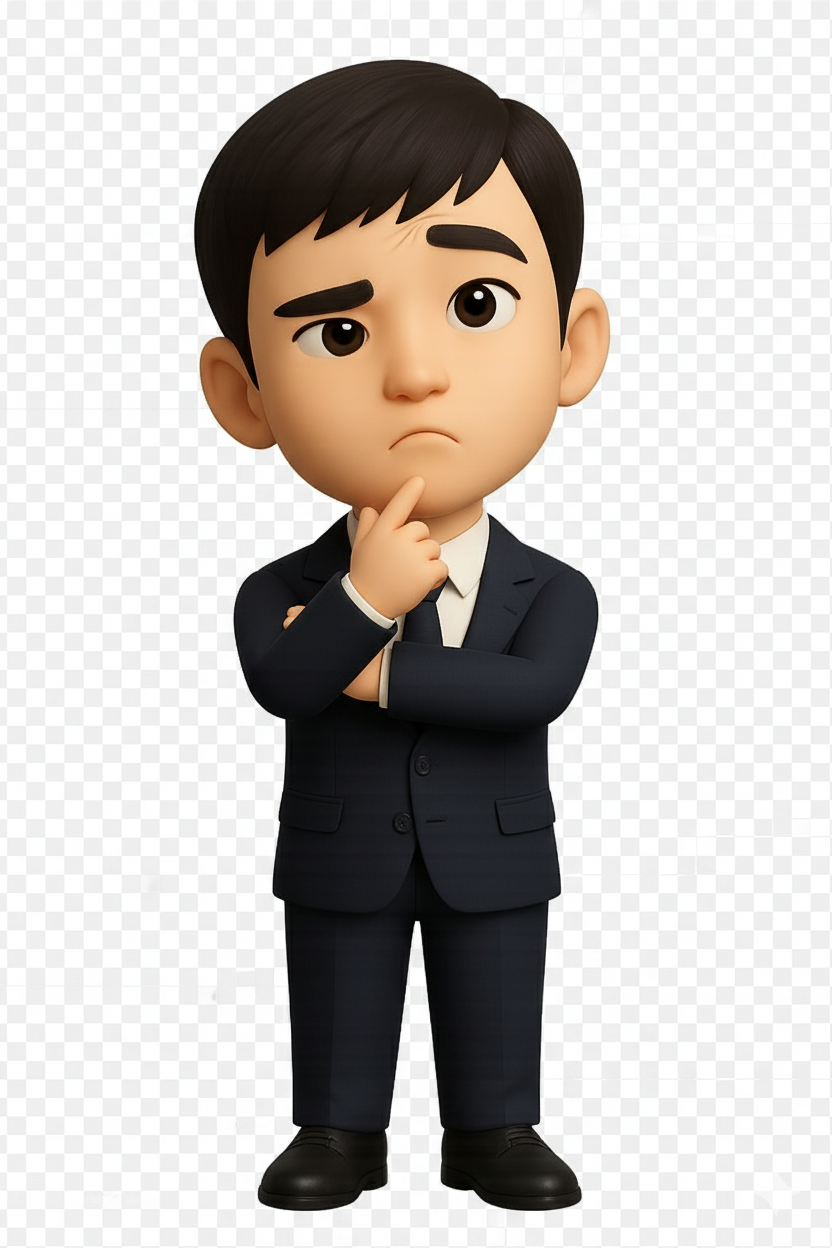
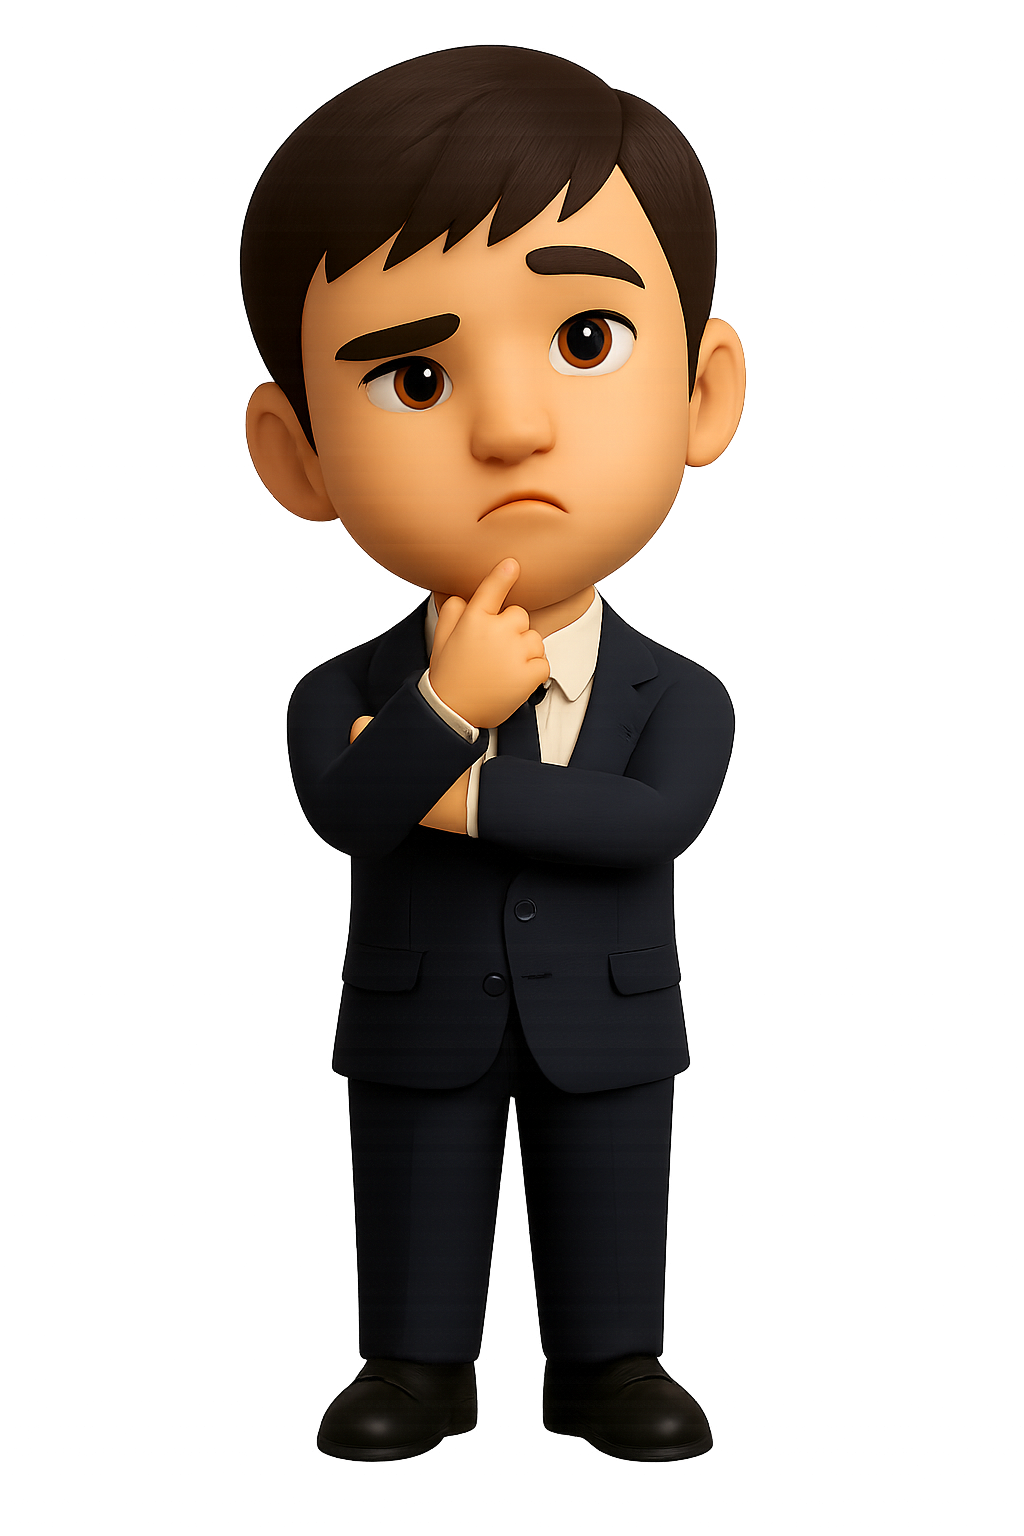
[fit] add ChatDialog and character image

diff --git a/S2Hub_App/Views/ChatDialog.xaml b/S2Hub_App/Views/ChatDialog.xaml
@@ -1,0 +1,44 @@
+<Window x:Class="S2Hub_App.Views.ChatDialog"
+        xmlns="http://schemas.microsoft.com/winfx/2006/xaml/presentation"
+        xmlns:x="http://schemas.microsoft.com/winfx/2006/xaml"
+        Title="S2Hub 대화"
+        Width="200" Height="320"
+        WindowStyle="None"
+        AllowsTransparency="True"
+        Background="Transparent"
+        Topmost="True"
+        WindowStartupLocation="CenterOwner"
+        MouseDown="Window_MouseDown">
+
+    <Grid Background="Transparent">
+
+        <Image x:Name="CharacterImage"
+               Source="/Assets/Images/thinking_wait.png"
+               Stretch="Uniform"
+               Margin="0,10,0,0"
+               HorizontalAlignment="Center"
+               VerticalAlignment="Center"
+               SnapsToDevicePixels="True"
+               MouseEnter="Character_MouseEnter"
+               MouseLeave="Character_MouseLeave"
+               />
+
+        <!-- X 버튼 (벡터) -->
+        <Grid x:Name="CloseButton"
+              Width="22" Height="22"
+              HorizontalAlignment="Center"
+              VerticalAlignment="Top"
+              Margin="-5,0,0,0"
+              Visibility="Collapsed"
+              Cursor="Hand"
+              MouseDown="CloseButton_MouseDown"
+              MouseEnter="CloseButton_MouseEnter"
+              MouseLeave="CloseButton_MouseLeave">
+
+            <Ellipse Fill="#AA444444" Stroke="White" StrokeThickness="1.2"/>
+            <Path Stroke="White" StrokeThickness="2"
+                  Data="M 6 6 L 16 16 M 6 16 L 16 6"/>
+        </Grid>
+
+    </Grid>
+</Window>

diff --git a/S2Hub_App/Views/MainWindow.xaml b/S2Hub_App/Views/MainWindow.xaml
@@ -16,8 +16,28 @@
     <DockPanel>
         <!-- 메뉴 영역 -->
         <Menu DockPanel.Dock="Top">
+            <!-- 파일(F) -->
+            <MenuItem Header="_파일(F)">
+                <MenuItem Header="닫기(_C)"
+                  Click="OnFileCloseClick" />                                                                   
+            </MenuItem>
+
+            <!-- 보기(V) -->
+            <MenuItem Header="_보기(V)">
+                <MenuItem Header="UI 언어(_U)"
+                  Click="OnViewUiLanguageClick" />
+            </MenuItem>
+
+            <!-- 도움말(H) -->
             <MenuItem Header="도움말(_H)">
-                <MenuItem Header="S2Hub Info...(_A)" Click="MenuInfo_Click"/>
+                <MenuItem Header="도움말 항목(_H)"
+                  Click="OnHelpTopicsClick" />
+
+                <MenuItem Header="대화(_T)"
+                  Click="OnHelpChatClick" />
+
+                <Separator />
+                <MenuItem Header="S2Hub Info...(_A)" Click="OnS2HubInfoClick"/>
             </MenuItem>
         </Menu>
 

diff --git a/S2Hub_App/Views/InfoDialog.xaml b/S2Hub_App/Views/InfoDialog.xaml
@@ -9,7 +9,7 @@
         SizeToContent="WidthAndHeight"
         ResizeMode="NoResize"
         WindowStartupLocation="CenterOwner"
-        Background="#FAFAFA">
+        Background="#FAFAFA" ShowInTaskbar="False" WindowStyle="ToolWindow">
 
 
     <Border BorderBrush="#DDD" BorderThickness="1" Padding="20" CornerRadius="10">
@@ -50,7 +50,7 @@
                        MouseDown="OnGithubClick" />
 
             <Button Content="확인" Width="80" Margin="0 10 0 0"
-                    Click="OnCloseClick"/>
+                    Click="OnCloseClick" IsDefault="True" />
         </StackPanel>
     </Border>
 

diff --git a/S2Hub_App/Views/InfoDialog.xaml.cs b/S2Hub_App/Views/InfoDialog.xaml.cs
@@ -2,8 +2,11 @@
 using System.Diagnostics;
 using System.IO;
 using System.Reflection;
+using System.Runtime.InteropServices;
 using System.Windows;
 using System.Windows.Input;
+using System.Windows.Interop;
+using System.Windows.Shell;
 
 namespace S2Hub_App
 {
@@ -15,15 +18,16 @@ namespace S2Hub_App
 
             var version = Assembly.GetExecutingAssembly().GetName().Version;
             var build = ReadBuildNumber();
-
             VersionText.Text = $"Version {version.Major}.{version.Minor}.{version.Build} (Build {build})";
+
+            Icon = null; // 아이콘 제거
         }
 
         private void OnGithubClick(object sender, MouseButtonEventArgs e)
         {
             Process.Start(new ProcessStartInfo
             {
-                FileName = "https://github.com/daesue",
+                FileName = "https://github.com/daesue/S2Hub",
                 UseShellExecute = true
             });
         }
@@ -33,7 +37,7 @@ namespace S2Hub_App
             this.Close();
         }
 
-        // 🔥 이제 BuildNumber.txt에서 읽는 버전
+        // 이제 BuildNumber.txt에서 읽는 버전
         private string ReadBuildNumber()
         {
             try
@@ -59,5 +63,33 @@ namespace S2Hub_App
                 return "0";
             }
         }
+
+        protected override void OnSourceInitialized(EventArgs e)
+        {
+            base.OnSourceInitialized(e);
+
+            // Win32 API 로 TitleBar Icon 제거
+            IntPtr hwnd = new WindowInteropHelper(this).Handle;
+            const int GCL_HICON = -14;
+            const int GCL_HICONSM = -34;
+
+            SetClassLongPtr(hwnd, GCL_HICON, IntPtr.Zero);
+            SetClassLongPtr(hwnd, GCL_HICONSM, IntPtr.Zero);
+        }
+
+        [DllImport("user32.dll", EntryPoint = "SetClassLongPtrW")]
+        static extern IntPtr SetClassLongPtr64(IntPtr hWnd, int nIndex, IntPtr dwNewLong);
+
+        [DllImport("user32.dll", EntryPoint = "SetClassLongW")]
+        static extern uint SetClassLongPtr32(IntPtr hWnd, int nIndex, IntPtr dwNewLong);
+
+        private static IntPtr SetClassLongPtr(IntPtr hWnd, int nIndex, IntPtr dwNewLong)
+        {
+            if (IntPtr.Size == 8)
+                return SetClassLongPtr64(hWnd, nIndex, dwNewLong);
+            else
+                return (IntPtr)SetClassLongPtr32(hWnd, nIndex, dwNewLong);
+        }
+
     }
 }

diff --git a/S2Hub_App/Views/ChatDialog.xaml.cs b/S2Hub_App/Views/ChatDialog.xaml.cs
@@ -1,0 +1,71 @@
+using System;
+using System.Collections.Generic;
+using System.Linq;
+using System.Text;
+using System.Threading.Tasks;
+using System.Windows;
+using System.Windows.Controls;
+using System.Windows.Data;
+using System.Windows.Documents;
+using System.Windows.Input;
+using System.Windows.Media;
+using System.Windows.Media.Imaging;
+using System.Windows.Shapes;
+
+namespace S2Hub_App.Views
+{
+    /// <summary>
+    /// ChatDialog.xaml에 대한 상호 작용 논리
+    /// </summary>
+    public partial class ChatDialog : Window
+    {
+
+        public ChatDialog()
+        {
+            InitializeComponent();
+        }
+
+        // 전체 창 드래그 이동
+        private void Window_MouseDown(object sender, MouseButtonEventArgs e)
+        {
+            if (e.LeftButton == MouseButtonState.Pressed)
+                DragMove();
+        }
+
+        // 캐릭터에 마우스 올라오면 X 표시
+        private void Character_MouseEnter(object sender, MouseEventArgs e)
+        {
+            CloseButton.Visibility = Visibility.Visible;
+        }
+
+        // 캐릭터에서 벗어나도 → X 버튼으로 가는 경우는 숨기지 않음
+        private void Character_MouseLeave(object sender, MouseEventArgs e)
+        {
+            // 실제로 Grid_MouseLeave와 다르게,
+            // X 버튼에 올라가는지 확인
+            if (!CloseButton.IsMouseOver)
+            {
+                CloseButton.Visibility = Visibility.Collapsed;
+            }
+        }
+
+        // X 버튼 영역에서도 계속 보이게 하기
+        private void CloseButton_MouseEnter(object sender, MouseEventArgs e)
+        {
+            CloseButton.Visibility = Visibility.Visible;
+        }
+
+        private void CloseButton_MouseLeave(object sender, MouseEventArgs e)
+        {
+            // X에서 벗어나도 캐릭터 위라면 유지
+            if (!CharacterImage.IsMouseOver)
+                CloseButton.Visibility = Visibility.Collapsed;
+        }
+
+        private void CloseButton_MouseDown(object sender, MouseButtonEventArgs e)
+        {
+            this.Close();
+        }
+
+    }
+}

diff --git a/S2Hub_App/Views/MainWindow.xaml.cs b/S2Hub_App/Views/MainWindow.xaml.cs
@@ -37,7 +37,7 @@ namespace S2Hub_App.Views
                 vm.SelectedNode = e.NewValue as DirectoryNode;
         }
 
-        private void MenuInfo_Click(object sender, RoutedEventArgs e)
+        private void OnS2HubInfoClick(object sender, RoutedEventArgs e)
         {
             //MessageBox.Show(
             //    "Smart Stow Hub\n\nVersion: 1.0.0\nDeveloper: Daesue\n\n© 2025 All Rights Reserved.",
@@ -47,6 +47,32 @@ namespace S2Hub_App.Views
             var dlg = new InfoDialog();
             dlg.Owner = this;   // 부모 창 중앙에 띄우기
             dlg.ShowDialog();
+        }
+
+        private void OnFileCloseClick(object sender, RoutedEventArgs e)
+        {
+            this.Close();
+        }
+
+        private void OnViewUiLanguageClick(object sender, RoutedEventArgs e)
+        {
+            // UI 언어 변경 로직을 여기에 구현하세요.
+            MessageBox.Show("UI 언어 변경 기능은 아직 구현되지 않았습니다.", "알림", MessageBoxButton.OK, MessageBoxImage.Information);
+        }
+
+        private void OnHelpTopicsClick(object sender, RoutedEventArgs e)
+        {
+            MessageBox.Show("도움말 항목을 여는 기능이 아직 구현되지 않았습니다.", "도움말", MessageBoxButton.OK, MessageBoxImage.Information);
+        }
+
+        private void OnHelpChatClick(object sender, RoutedEventArgs e)
+        {
+            // 여기에 대화 도움말을 표시하는 로직을 구현하세요.
+            var dlg = new ChatDialog
+            {
+                Owner = this
+            };
+            dlg.Show();
         }
     }
 }
